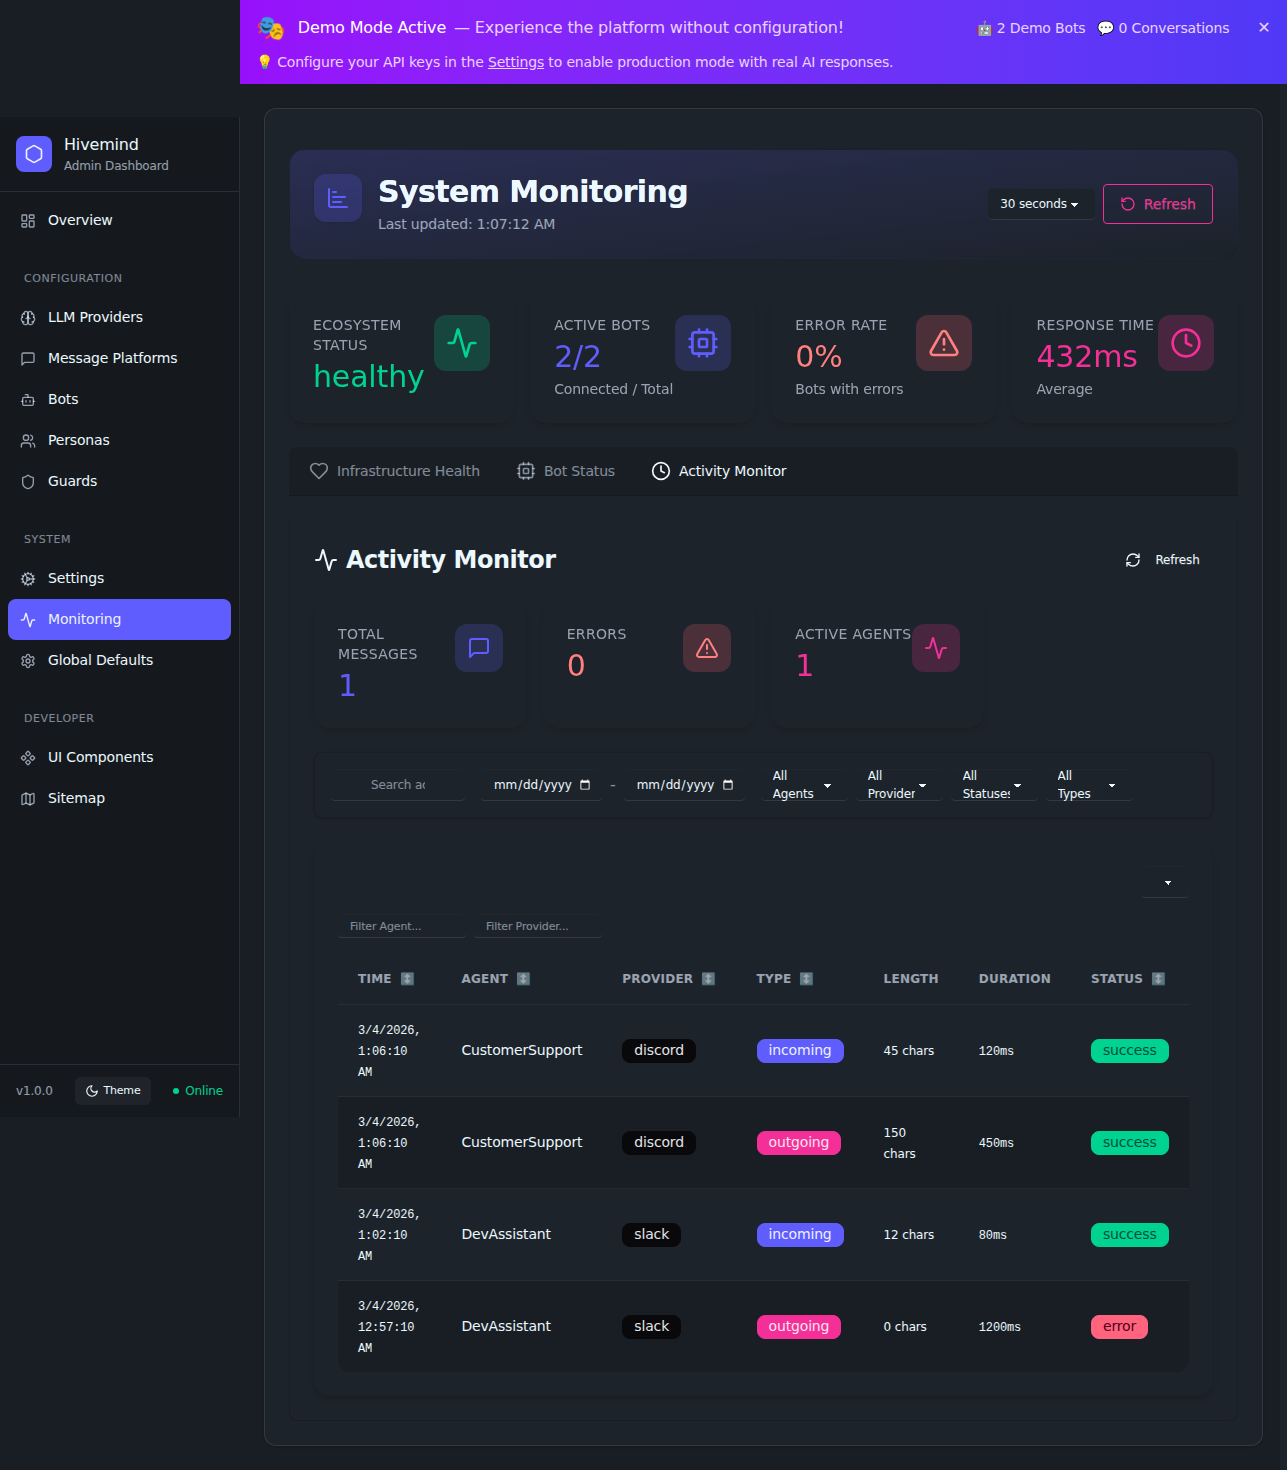
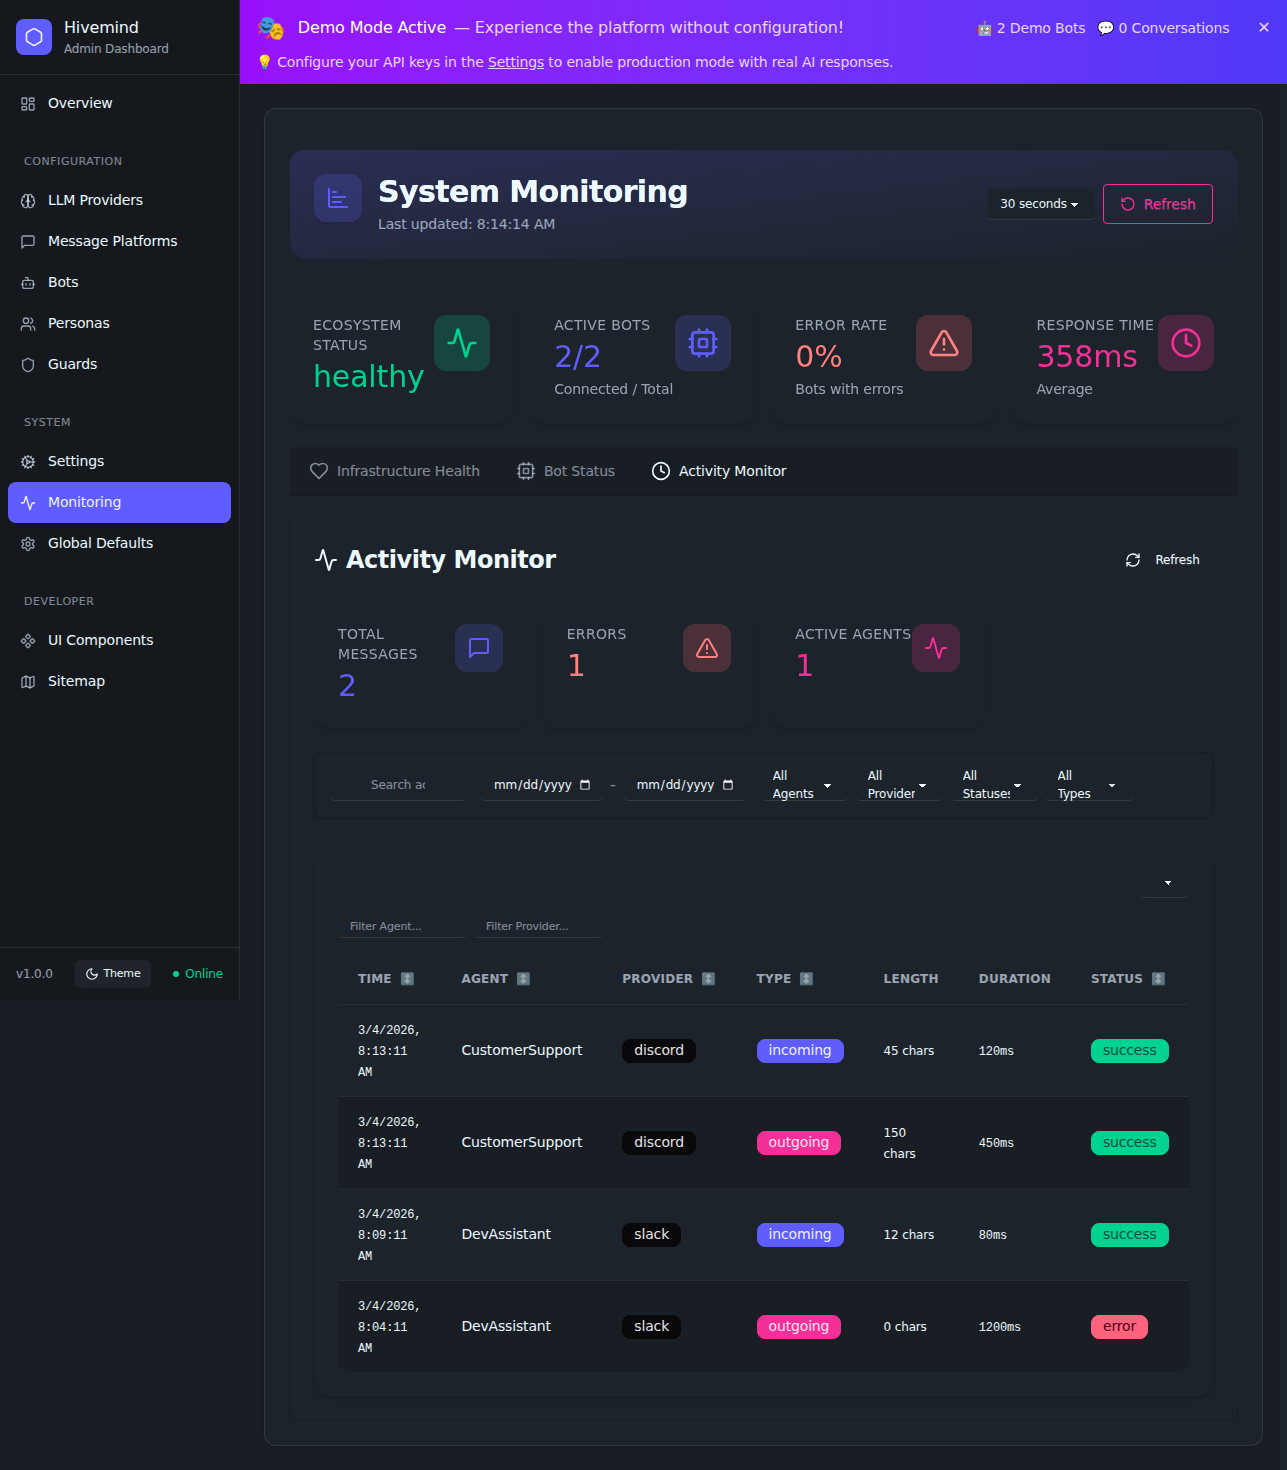
Refiner (11. recordMessageFlow calculates the precise processingTime f (#1151)

diff --git a/packages/adapter-mattermost/src/MattermostService.ts b/packages/adapter-mattermost/src/MattermostService.ts
@@ -197,6 +197,22 @@ export class MattermostService extends EventEmitter implements IMessengerService
       const duration = Date.now() - startTime;
       metrics.incrementMessages();
       metrics.recordResponseTime(duration);
+
+      try {
+        const ws = require('@src/server/services/WebSocketService')
+          .default as typeof import('@src/server/services/WebSocketService').default;
+        ws.getInstance().recordMessageFlow({
+          botName: senderName || Array.from(this.clients.keys())[0],
+          provider: 'mattermost',
+          channelId,
+          userId: 'system',
+          messageType: 'outgoing',
+          contentLength: text.length,
+          processingTime: duration,
+          status: 'success',
+        });
+      } catch { }
+
       debug(`Message sent successfully after ${attemptCount} attempts in ${duration}ms`);
       return result;
     } catch (error: any) {
@@ -216,6 +232,7 @@ export class MattermostService extends EventEmitter implements IMessengerService
           userId: 'system',
           messageType: 'outgoing',
           contentLength: text.length,
+          processingTime: duration,
           status: 'error',
           errorMessage: error.message,
         });

diff --git a/update-discord.js b/update-discord.js
@@ -1,0 +1,28 @@
+const fs = require('fs');
+const filepath = 'packages/adapter-discord/src/managers/DiscordMessageSender.ts';
+let content = fs.readFileSync(filepath, 'utf8');
+
+content = content.replace(
+  /webSocketService\?\.recordMessageFlow\(\{\n\s*botName: botInfo\.botUserName,\n\s*provider: 'discord',\n\s*channelId: selectedChannelId,\n\s*userId: '',\n\s*messageType: 'outgoing',\n\s*contentLength: \(text \|\| ''\)\.length,\n\s*status: 'success',\n\s*\}\);/g,
+  `webSocketService?.recordMessageFlow({
+          botName: botInfo.botUserName,
+          provider: 'discord',
+          channelId: selectedChannelId,
+          userId: '',
+          messageType: 'outgoing',
+          contentLength: (text || '').length,
+          processingTime: Date.now() - t0,
+          status: 'success',
+        });`
+);
+
+// We need to define t0
+if (!content.includes('const t0 = Date.now();')) {
+  content = content.replace(
+    /const botInfo =\n\s*\(senderName && isSnowflake\(senderName\)/g,
+    `const t0 = Date.now();\n    const botInfo =\n      (senderName && isSnowflake(senderName)`
+  );
+}
+
+fs.writeFileSync(filepath, content);
+console.log('Updated Discord adapter.');

diff --git a/packages/adapter-discord/src/managers/DiscordMessageSender.ts b/packages/adapter-discord/src/managers/DiscordMessageSender.ts
@@ -25,8 +25,9 @@ export class DiscordMessageSender {
     try {
       const isSnowflake = (v: unknown) => /^\d{15,25}$/.test(String(v || ''));
       const bots = this.botManager.getAllBots();
-      const botInfo =
-        (senderName && isSnowflake(senderName)
+      const t0 = Date.now();
+    const botInfo =
+      (senderName && isSnowflake(senderName)
           ? bots.find(
               (b) =>
                 b.botUserId === senderName ||
@@ -103,6 +104,7 @@ export class DiscordMessageSender {
     }
 
     const isSnowflake = (v: unknown) => /^\d{15,25}$/.test(String(v || ''));
+    const t0 = Date.now();
     const botInfo =
       (senderName && isSnowflake(senderName)
         ? bots.find(
@@ -197,6 +199,7 @@ export class DiscordMessageSender {
           userId: '',
           messageType: 'outgoing',
           contentLength: (text || '').length,
+          processingTime: Date.now() - t0,
           status: 'success',
         });
       } catch {}

diff --git a/packages/shared-types/src/IServiceDependencies.ts b/packages/shared-types/src/IServiceDependencies.ts
@@ -139,6 +139,7 @@ export interface IWebSocketService {
     userId: string;
     messageType: 'incoming' | 'outgoing';
     contentLength: number;
+    processingTime?: number;
     status: string;
   }) => void;
   /** Record an alert for monitoring */
